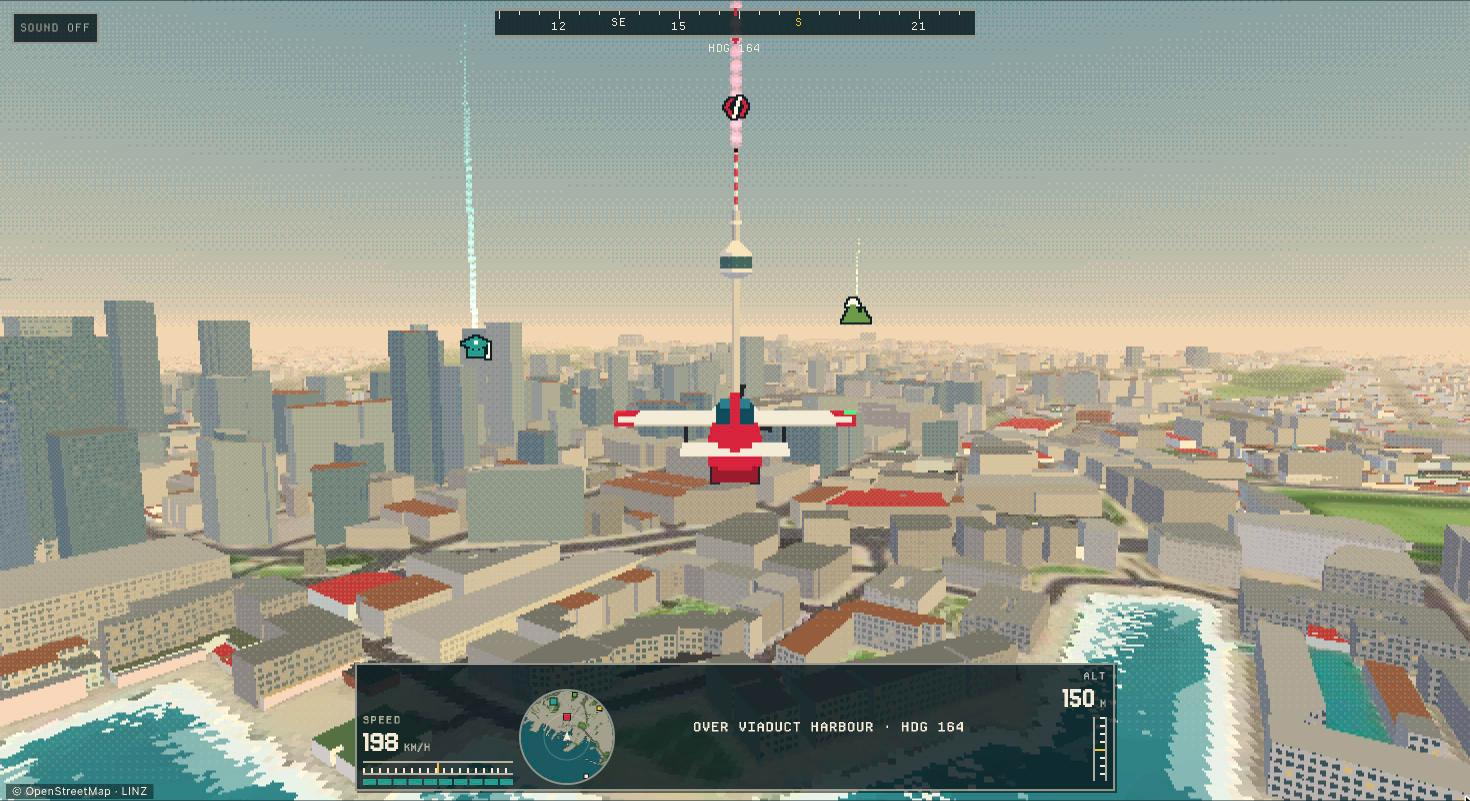
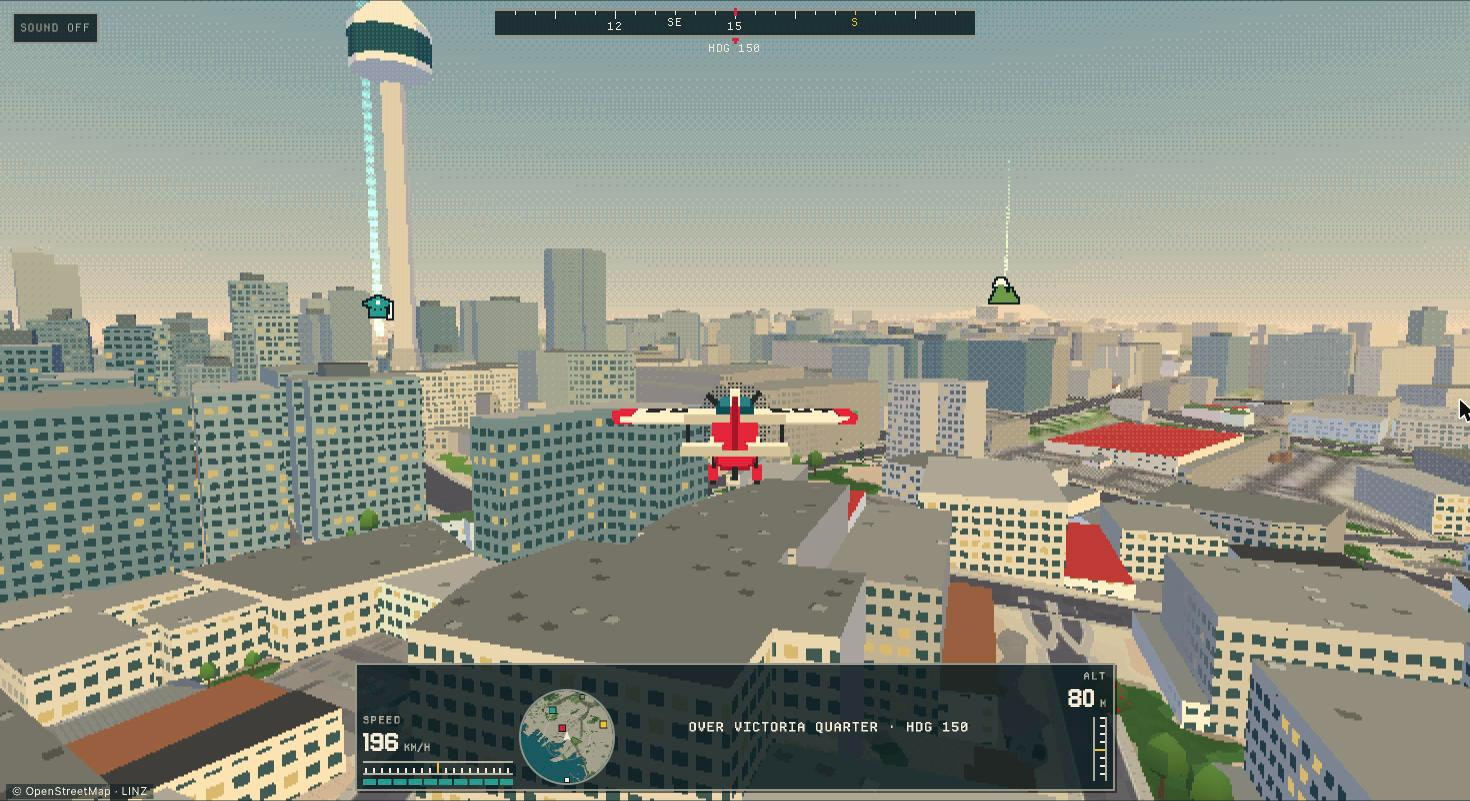
v0.3.0: new screenshots, the plan document's status, and the version
Five captures from the live site show what this round added (the marina and
bridge from St Marys Bay, Freemans Bay's roofs and trees, the port, the harbour
at night, and a fresh one over the city), and docs/PLAN.md says where to read
about it.

diff --git a/README.md b/README.md
@@ -24,8 +24,16 @@ Concept inspired by [dvlan.dev](https://dvlan.dev). All code, art and copy here 
 
 <table>
 <tr>
-<td width="50%"><img src="docs/screenshots/flying.jpg" alt="Flying towards the Sky Tower over the Viaduct, with the HUD showing speed, radar, heading and altitude"><br><sub>Over the Viaduct, heading for the Sky Tower.</sub></td>
+<td width="50%"><img src="docs/screenshots/flying.jpg" alt="Flying over Victoria Quarter towards the city centre, the Sky Tower on the left, with the HUD showing speed, radar, heading and altitude"><br><sub>Over Victoria Quarter, heading into the city.</sub></td>
 <td width="50%"><img src="docs/screenshots/briefing.jpg" alt="A project briefing docked on the right while the camera circles the Sky Tower"><br><sub>A briefing opens beside its landmark while the plane holds a circle.</sub></td>
+</tr>
+<tr>
+<td><img src="docs/screenshots/marina.jpg" alt="Over St Marys Bay: the motorway with its lane markings, trees on the cliff, Westhaven marina full of boats and the Harbour Bridge beyond"><br><sub>St Marys Bay: a marked motorway, trees where LiDAR says they are, Westhaven's boats and the bridge.</sub></td>
+<td><img src="docs/screenshots/suburb.jpg" alt="Over Freemans Bay: houses with pitched roofs, windows and doors, street trees, and the Sky Tower on the skyline"><br><sub>Freemans Bay: roofs, windows and trees on the way into town.</sub></td>
+</tr>
+<tr>
+<td><img src="docs/screenshots/port.jpg" alt="The container terminal: blue-grey cranes on the quay, some with booms raised, and blocks of coloured containers"><br><sub>The port, with its cranes where they really stand.</sub></td>
+<td><img src="docs/screenshots/night-harbour.jpg" alt="Westhaven marina at night under the stars, with the Harbour Bridge floodlit along its length"><br><sub>The marina at night, the bridge floodlit behind it.</sub></td>
 </tr>
 <tr>
 <td><img src="docs/screenshots/night.jpg" alt="The city at night: lit windows, a floodlit Sky Tower and stars"><br><sub>Night, on the real Auckland clock or with <code>?time=night</code>.</sub></td>

diff --git a/docs/PLAN.md b/docs/PLAN.md
@@ -1,6 +1,6 @@
 # Plan: "Fly over Auckland" portfolio (inspired by dvlan.dev)
 
-> **Status (November 2026).** This is the original build plan, kept as a record. Phase 1 (M0 to M6) and Phase 2's Sky Deck room, Claude chat and Vercel config are built. Where this document and the code disagree, the code wins: the current layout, scripts and behaviour are described in `README.md`. Never built from this plan: music, and `osmtogeojson` / `lerc` (neither was needed).
+> **Status (November 2026).** This is the original build plan, kept as a record. Phase 1 (M0 to M6) and Phase 2's Sky Deck room, Claude chat and Vercel config are built. A later round (v0.3.0) gave the world its close-up detail: roads with markings, ground drawn from land type, LiDAR tree canopy and trees, pitched roofs and wall detail, a rebuilt Harbour Bridge, marinas with boats, and five modelled landmarks; those are described in the README, not here. Where this document and the code disagree, the code wins: the current layout, scripts and behaviour are described in `README.md`. Never built from this plan: music, and `osmtogeojson` / `lerc` (neither was needed).
 
 ## Context
 
